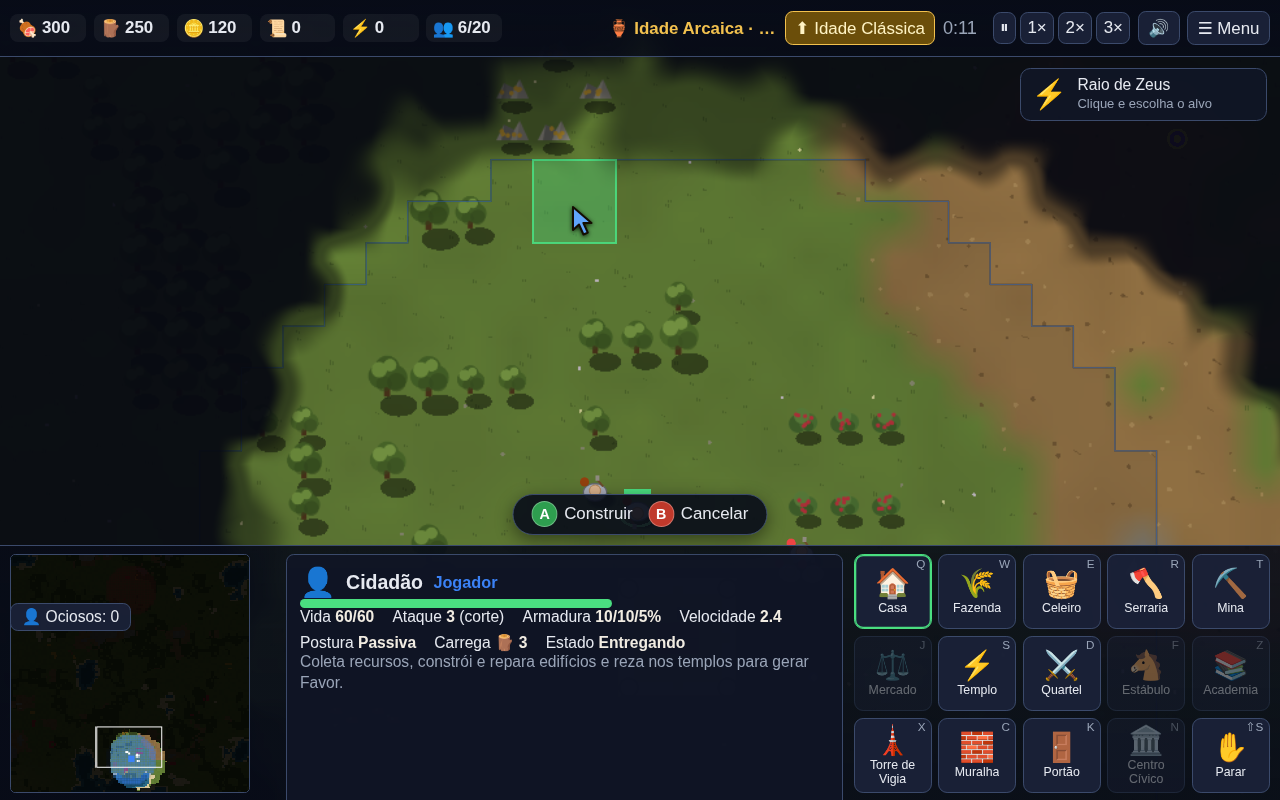
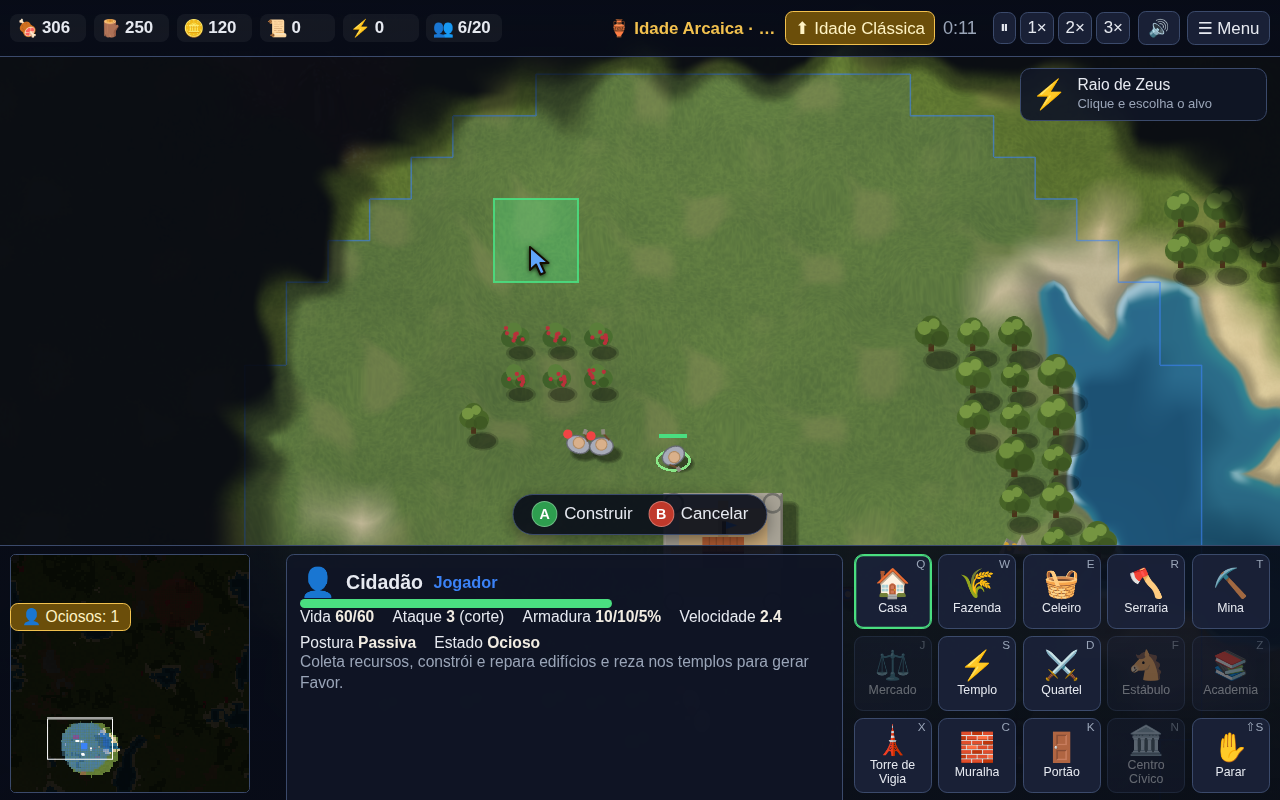
Qualidade automática: detecta GPU por software e decide cedo pelo intervalo entre quadros
Com o terreno por shader, a renderização por software (swiftshader/llvmpipe)
ficava em ~1,5 fps no preset médio e os playtests de controle e áudio
falhavam por tempo. Agora:
- Renderer.gpuName() lê WEBGL_debug_renderer_info; isSoftwareRenderer()
  reconhece renderizadores sem GPU e o preset automático já começa em baixo.
- AutoQuality mede também o intervalo real entre quadros (inclui a
  rasterização) e decide antes de completar a amostra quando passam 3 s.
- ART.md: Etapa 1 marcada como concluída; ROADMAP 2.1 atualizado.

Verificado: 276 testes, typecheck, playtest-gamepad e playtest-audio verdes.

Claude-Session: https://claude.ai/code/session_01T69iHgagsmM9EBeYq4tRST

diff --git a/src/render/quality.ts b/src/render/quality.ts
@@ -31,6 +31,18 @@ export const QUALITY_PRESETS: readonly QualityPreset[] = ['auto', 'low', 'medium
 export const AUTO_SAMPLE_FRAMES = 120;
 /** p95 (ms de renderer.render) acima do qual o automático desce um nível. */
 export const AUTO_P95_MS = 12;
+/** p95 do intervalo entre quadros (ms) acima do qual o automático desce um nível (abaixo de ~25 fps). O custo JS de
+ *  renderer.render não inclui a rasterização (GPU ou software), então o intervalo real entre quadros também conta. */
+export const AUTO_FRAME_P95_MS = 40;
+/** O automático decide cedo se os quadros forem lentos: depois deste tempo de parede com pelo menos AUTO_MIN_FRAMES. */
+export const AUTO_MAX_WALL_MS = 3000;
+export const AUTO_MIN_FRAMES = 8;
+
+/** Renderização por software (sem GPU/driver): o automático começa em 'low'. `renderer` = UNMASKED_RENDERER_WEBGL. */
+export function isSoftwareRenderer(renderer: string | null | undefined): boolean {
+  return !!renderer && /swiftshader|llvmpipe|softpipe|software|microsoft basic render/i.test(renderer);
+}
+
 /** Orçamento de partículas por nível (índice = Quality.particles). */
 export const PARTICLE_BUDGET = [200, 800, 2000] as const;
 
@@ -79,17 +91,25 @@ export class AutoQuality {
   level: QualityLevel;
   decided = false;
   private samples: number[] = [];
-  constructor(level: QualityLevel = 'medium', readonly frames = AUTO_SAMPLE_FRAMES, readonly limitMs = AUTO_P95_MS) { this.level = level; }
+  private intervals: number[] = [];
+  private wallMs = 0;
+  constructor(level: QualityLevel = 'medium', readonly frames = AUTO_SAMPLE_FRAMES, readonly limitMs = AUTO_P95_MS, readonly frameLimitMs = AUTO_FRAME_P95_MS) { this.level = level; }
   /** Recomeça a medição (nova partida) mantendo o nível atual. */
-  reset(): void { this.samples = []; this.decided = false; }
-  sample(ms: number): QualityLevel | null {
+  reset(): void { this.samples = []; this.intervals = []; this.wallMs = 0; this.decided = false; }
+  /**
+   * `ms` = custo JS de renderer.render; `intervalMs` = tempo desde o quadro anterior (opcional). Decide após `frames`
+   * quadros ou, com quadros lentos, após AUTO_MAX_WALL_MS de parede com pelo menos AUTO_MIN_FRAMES amostras.
+   */
+  sample(ms: number, intervalMs?: number): QualityLevel | null {
     if (this.decided) return null;
     this.samples.push(ms);
-    if (this.samples.length < this.frames) return null;
+    if (intervalMs !== undefined && intervalMs > 0 && intervalMs < 5000) { this.intervals.push(intervalMs); this.wallMs += intervalMs; }
+    const early = this.wallMs >= AUTO_MAX_WALL_MS && this.samples.length >= AUTO_MIN_FRAMES;
+    if (this.samples.length < this.frames && !early) return null;
     this.decided = true;
-    const worst = p95(this.samples);
-    this.samples = [];
-    if (worst <= this.limitMs) return null;
+    const worst = p95(this.samples), worstFrame = p95(this.intervals);
+    this.samples = []; this.intervals = []; this.wallMs = 0;
+    if (worst <= this.limitMs && worstFrame <= this.frameLimitMs) return null;
     const next = lowerLevel(this.level);
     if (next === this.level) return null;
     this.level = next;

diff --git a/src/main.ts b/src/main.ts
@@ -26,7 +26,7 @@ import { nearestFreeTile } from './core/map/pathfinding';
 import { Achievements } from './game/achievements';
 import { detectLocale, setLocale, t } from './i18n';
 import { loadSettings, saveSettings } from './game/settings';
-import { AutoQuality, levelOf, resolveQuality } from './render/quality';
+import { AutoQuality, isSoftwareRenderer, levelOf, resolveQuality } from './render/quality';
 import { PerfMonitor } from './render/perf';
 import { exportText, importText } from './game/files';
 import { applyUiScale, initDisplay, isFullscreen, setFullscreen, desktop, setPresence } from './game/display';
@@ -55,8 +55,10 @@ async function boot() {
   const perfParam = new URLSearchParams(location.search).get('perf') === '1';
   let auto = new AutoQuality();
   /** Aplica o preset salvo: 'auto' começa em Média e mede o início de cada partida; os outros não medem. */
+  // Sem GPU (renderização por software): o automático já começa no nível baixo
+  const softwareGpu = isSoftwareRenderer(renderer.gpuName());
   const applyQuality = () => {
-    auto = new AutoQuality(levelOf(settings.quality));
+    auto = new AutoQuality(settings.quality === 'auto' && softwareGpu ? 'low' : levelOf(settings.quality));
     if (settings.quality !== 'auto') auto.decided = true;
     renderer.setQuality(resolveQuality(settings.quality, { level: auto.level, showFps: settings.showFps, teamOutline: settings.teamOutline }));
     perf.setVisible(perfParam || settings.showFps);
@@ -399,6 +401,7 @@ async function boot() {
 
   let last = performance.now();
   let measured: Session | null = null;   // sessão cuja abertura o preset automático está medindo
+  let lastFrameAt = 0;                    // para o intervalo real entre quadros (inclui a rasterização)
   const loop = (now: number) => {
     const dt = Math.min(0.1, (now - last) / 1000); last = now;
     perf.frame(now);
@@ -412,13 +415,14 @@ async function boot() {
       if (!session.spectator && !editorOrTest()) achievements.update(session.state, session.local, dt);
       input.update(dt);
       const t0 = performance.now();
+      const interval = lastFrameAt > 0 ? t0 - lastFrameAt : undefined; lastFrameAt = t0;
       renderer.render(session.state, alpha, input.renderUI(), dt);
       const ms = performance.now() - t0;
       perf.sample(ms);
       // Preset automático: mede os primeiros quadros de cada partida (não do editor) e desce um nível se preciso
       if (!editing) {
         if (session !== measured) { measured = session; auto.reset(); }
-        const lowered = auto.sample(ms);
+        const lowered = auto.sample(ms, interval);
         if (lowered) { renderer.setQuality(resolveQuality('auto', { level: lowered, showFps: settings.showFps, teamOutline: settings.teamOutline })); hud.toast(t('msg.qualityLowered', { level: t(`quality.${lowered}`) }), 'info'); }
       }
       hud.update(dt);

diff --git a/tests/quality.test.ts b/tests/quality.test.ts
@@ -1,5 +1,5 @@
 import { describe, it, expect } from 'vitest';
-import { AutoQuality, AUTO_P95_MS, AUTO_SAMPLE_FRAMES, QUALITY_PRESETS, effectiveResolution, levelOf, lowerLevel, p95, resolveQuality } from '../src/render/quality';
+import { AutoQuality, isSoftwareRenderer, AUTO_P95_MS, AUTO_SAMPLE_FRAMES, QUALITY_PRESETS, effectiveResolution, levelOf, lowerLevel, p95, resolveQuality } from '../src/render/quality';
 import { loadSettings, DEFAULT_SETTINGS } from '../src/game/settings';
 
 describe('qualidade (docs/ART.md §3.9)', () => {
@@ -66,5 +66,21 @@ describe('qualidade (docs/ART.md §3.9)', () => {
       store.aoe_settings_v1 = '{corrompido';
       expect(loadSettings().quality).toBe('auto');
     } finally { delete (globalThis as { localStorage?: unknown }).localStorage; }
+  });
+
+  it('automático detecta renderização por software e decide cedo com quadros lentos (intervalo real entre quadros)', () => {
+    expect(isSoftwareRenderer('ANGLE (Google, Vulkan 1.3.0 (SwiftShader Device (Subzero) (0x0000C0DE)), SwiftShader driver)')).toBe(true);
+    expect(isSoftwareRenderer('llvmpipe (LLVM 15.0.7, 256 bits)')).toBe(true);
+    expect(isSoftwareRenderer('ANGLE (Intel, Intel(R) UHD Graphics 620, OpenGL 4.6)')).toBe(false);
+    expect(isSoftwareRenderer(null)).toBe(false);
+    // render barato em JS mas quadros a 1,5 fps: desce antes de 120 quadros
+    const a = new AutoQuality('medium');
+    let lowered: string | null = null, n = 0;
+    while (!a.decided && n < 200) { lowered = a.sample(2, 660); n++; }
+    expect(a.decided).toBe(true); expect(n).toBeLessThan(20); expect(lowered).toBe('low');
+    // quadros rápidos: não desce e segue o limite de 120 quadros
+    const b = new AutoQuality('medium'); let m = 0;
+    while (!b.decided && m < 500) { b.sample(2, 16.7); m++; }
+    expect(m).toBe(AUTO_SAMPLE_FRAMES); expect(b.level).toBe('medium');
   });
 });

diff --git a/src/render/renderer.ts b/src/render/renderer.ts
@@ -152,6 +152,14 @@ export class Renderer {
     this.cam.minZoom = Math.min(DEFAULT_MIN_ZOOM, this.fitZoom());
     if (this.cam.zoom < this.cam.minZoom) { this.cam.zoom = this.cam.minZoom; this.cam.clamp(); }
   }
+  /** Nome da GPU (WEBGL_debug_renderer_info) ou null; usado para detectar renderização por software. */
+  gpuName(): string | null {
+    try {
+      const gl = (this.app.renderer as unknown as { gl?: WebGLRenderingContext }).gl; if (!gl) return null;
+      const ext = gl.getExtension('WEBGL_debug_renderer_info');
+      return String(gl.getParameter(ext ? ext.UNMASKED_RENDERER_WEBGL : gl.RENDERER) ?? '') || null;
+    } catch { return null; }
+  }
   /** Enquadra o mapa inteiro: recalcula minZoom, aplica o zoom de enquadramento e centra a câmera (editor ao abrir). */
   fitMap(): void {
     if (!this.state) return;

diff --git a/docs/ART.md b/docs/ART.md
@@ -328,7 +328,7 @@ Cada etapa = commits em português com o rodapé de atribuição, testes verdes,
 | # | Etapa | Horas | Entregas visíveis | Critério de pronto |
 |---|---|---|---|---|
 | **0** ✅ | **Base, medição e limpeza visível** (concluída em set/2026: `fog.ts`, `shadows.ts`, `palette.ts`, `quality.ts`, `perf.ts`, `artshot`/`artdiff`, capturas em `docs/art/etapa0-*`) | **12** | Névoa suave (`fog.ts` mesh + `smoothstep`, sem blocos); paleta terrosa em `TERRAIN_PALETTE` e no placeholder; grade dos tiles eliminada (variação contínua pelo `decor` em vez de 2 tons); sombras SE **separadas** para árvores e unidades no placeholder (camada `shadows`, sem girar com o corpo); fronteira fina e suave (1,5 px, alfa 0,6, junções arredondadas); `quality.ts` + `Settings.quality/showFps/teamOutline` + `antialias:false` + teto de `resolution`; overlay `?perf=1` (fps, ms de render, draw calls, MB); `renderperf.mjs` estendido; `artshot.mjs`/`artdiff.mjs` com referências; par de capturas do protótipo de bake a 50° e 90° para a pergunta 1 | Capturas antes/depois a 3 zooms mostram névoa sem blocos, sem grade e sombras coerentes; `npm run perf:render` imprime ms/quadro, draw calls e MB no cenário 144×144/260+ unidades; opções persistem (`playtest-options.mjs`); `artdiff` verde contra as novas referências; o dono roda `?perf=1` no PC dele (e no Deck, se tiver) e devolve os números de base |
-| 1 | **Terreno por shader e props** | 36 | `ChunkMesh` + shaders (completo/simples), materiais gerados (`page/terrain.js` → `public/art/terrain/`) + fallback runtime, bombing, normais + sol, relevo macro, água animada com espuma/margem molhada/cor por profundidade, montanha rocha+neve, fronteira no shader, camada `props` (árvores/nós/rochas/decoração como sprites por tile com sombra e oclusão por y), `invalidateRect` por bytes, minimapa por RenderTexture; correção da areia "papel amassado" e das costuras do bombing | Sem grade a zoom 2,2 nem repetição visível a 0,35; água com normal animada e espuma; zero `generateTexture` de chunk (grep + perf); rolar a câmera e cortar 50 árvores sem pico > 4 ms; `playtest-editor.mjs` e `playtest-fixedmap.mjs` verdes; capturas dos 5 tipos de mapa (`MAP_TYPES`) e do editor pintando |
+| 1 ✅ | **Terreno por shader e props** (concluída: `src/render/terrain/*` — 1 Mesh com recorte por índice, 3 grades de bombing, materiais gerados em segundo plano, água animada, fronteira em curva suave; nós em atlas único com ordenação global por y; capturas `docs/art/etapa1-*`; rolagem p95 17,9 → 5,3 ms; texturas 134 → 14 MB. Pendente para a 1b: props assados do bake no lugar do atlas de nós procedural e sombras de nós na areia) | 36 | `ChunkMesh` + shaders (completo/simples), materiais gerados (`page/terrain.js` → `public/art/terrain/`) + fallback runtime, bombing, normais + sol, relevo macro, água animada com espuma/margem molhada/cor por profundidade, montanha rocha+neve, fronteira no shader, camada `props` (árvores/nós/rochas/decoração como sprites por tile com sombra e oclusão por y), `invalidateRect` por bytes, minimapa por RenderTexture; correção da areia "papel amassado" e das costuras do bombing | Sem grade a zoom 2,2 nem repetição visível a 0,35; água com normal animada e espuma; zero `generateTexture` de chunk (grep + perf); rolar a câmera e cortar 50 árvores sem pico > 4 ms; `playtest-editor.mjs` e `playtest-fixedmap.mjs` verdes; capturas dos 5 tipos de mapa (`MAP_TYPES`) e do editor pintando |
 | 2 🔶 | **Pipeline de bake + primeiras peças no jogo** (parte A ✅: `scripts/bake/*`, manifestos, atlas 1×/2× de hoplita, cidadão, templo e props em `public/art/`, folhas de contato `docs/art/etapa2-*-contato.png`, 11 testes; parte B pendente: integração no renderizador) | 46 | `scripts/bake/*` (CLI, servidor, contrato de câmera, materiais PBR, 3 passes, packer, JSON, cache por hash, `--only/--scale/--dirs/--mirror/--pack-only`), manifestos + poses JSON, `.glb` via manifesto (testado com um modelo de teste gerado no próprio bake), rig humano → **hoplita e cidadão** (todas as animações), **templo** (3 estágios + completo), **árvores/tocos/rochas assados** substituindo o placeholder; `ArtLibrary` + `AtlasSource`/`ProceduralSource`, `UnitView`/`BuildingView`, 8 direções, máscara de time, sombras, pick por caixa, névoa no pé, padding/mipmaps, carregamento por tipo com pré-aquecimento; `tests/art-manifest.test.ts` | `npm run art:bake -- --only hoplite,villager,temple,props` reproduzível (mesmo JSON em duas rodadas); hoplita anda/ataca/morre nas 8 direções com sombra SE e cor de time; cidadão carrega/coleta; templo em obra e completo; demais tipos continuam procedurais sem erro; `perf:render` com 300 hoplitas dentro do orçamento (seção 6); captura "desfile" a zoom 1 e 2,2 |
 | 3 | **Edifícios (21)** | 50 | Rigs de edifícios: obra 3 estágios, dano 2 + fumaça, escombros, muralha por bitmask (16), portão, portal dos titãs animado, fazenda 3 estágios, estandartes, fantasma de construção, desabilitado; ícones assados de cada um no HUD (com fallback) | `ProceduralSource` deixa de ser usado para edifícios em partida normal; muralhas contínuas sem costura; obra visível 0/33/66 %; captura de uma cidade completa por Idade (4 capturas) aprovada pelo dono |
 | 4 | **Unidades humanas, montadas e cerco (22)** | 60 | 5 infantaria + basileus, 3 à distância, 2 cavalaria + kataskopos, 2 cerco, 5 heróis (capa longa, halo em partícula); ícones | Todas no manifesto e no atlas; cada uma reconhecível a zoom 1 na captura "desfile"; VRAM residente ≤ 100 MB no cenário de perf; aprovação por lote (infantaria → distância/cavalaria → cerco/heróis) |

diff --git a/docs/ROADMAP.md b/docs/ROADMAP.md
@@ -35,7 +35,7 @@ Objetivo: parar de parecer protótipo. É o caminho crítico do projeto.
 
 | # | Passo | Resp. | Semanas |
 |---|---|---|---|
-| 2.1 | 🔶 Direção de arte: **realismo** por pipeline próprio (terreno por shader + sprites pré-renderizados em build; contrato em `docs/ART.md`); Etapa 0 ✅ (névoa suave, paleta terrosa, sem grade, sombras SE, fronteira fina, presets de qualidade, `?perf=1`, capturas em `docs/art/`). Pendente: respostas do dono (§8 de ART.md: inclinação 50° vs 90°, direções, cores de time, sangue, IA, hardware, artista) e nome/logo | V + A | 3–4 |
+| 2.1 | 🔶 Direção de arte: **realismo** por pipeline próprio (terreno por shader + sprites pré-renderizados em build; contrato em `docs/ART.md`); Etapa 0 ✅ (névoa suave, paleta terrosa, sem grade, sombras SE, fronteira fina, presets de qualidade, `?perf=1`, capturas em `docs/art/`); Etapa 1 ✅ (terreno por shader: materiais, relevo, água animada, espuma); Etapa 2A ✅ (pipeline de sprites pré-renderizados). Pendente: respostas do dono (§8 de ART.md: inclinação 50° vs 90°, direções, cores de time, sangue, IA, hardware, artista) e nome/logo | V + A | 3–4 |
 | 2.2 | Contratar artista(s) (ou pipeline com IA + retoque humano); briefing com a lista completa de assets | V + T | 4–5 |
 | 2.3 | Assets: ~36 unidades (8 direções × parado/andar/atacar/morrer), 20 edifícios (2 estados + dano), tileset com transições, 60+ ícones, retratos dos 12 deuses, efeitos dos 12 poderes, cursores | T | 5–13 |
 | 2.4 | Integração: atlas de sprites e animação por spritesheet no renderizador (substitui `textures.ts`); partículas para poderes. Plano detalhado nas Etapas 1–6 de `docs/ART.md` (terreno por shader → pipeline de bake → edifícios → unidades → efeitos → míticas) | A | 8–14 |
